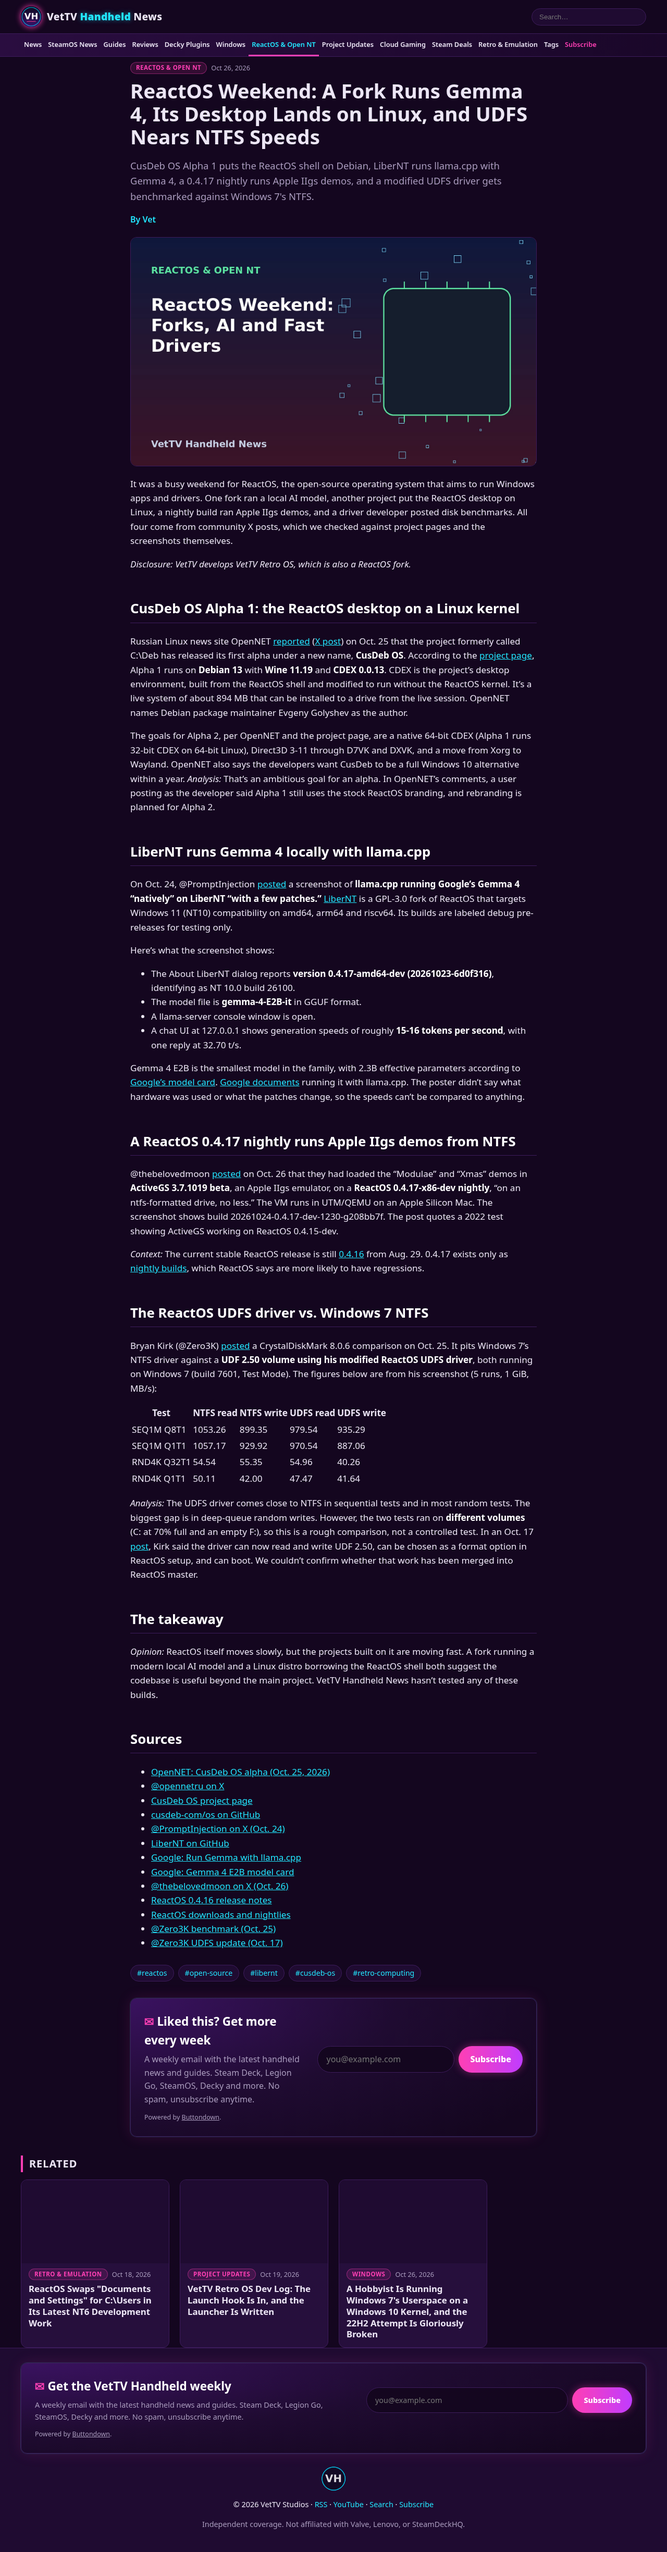
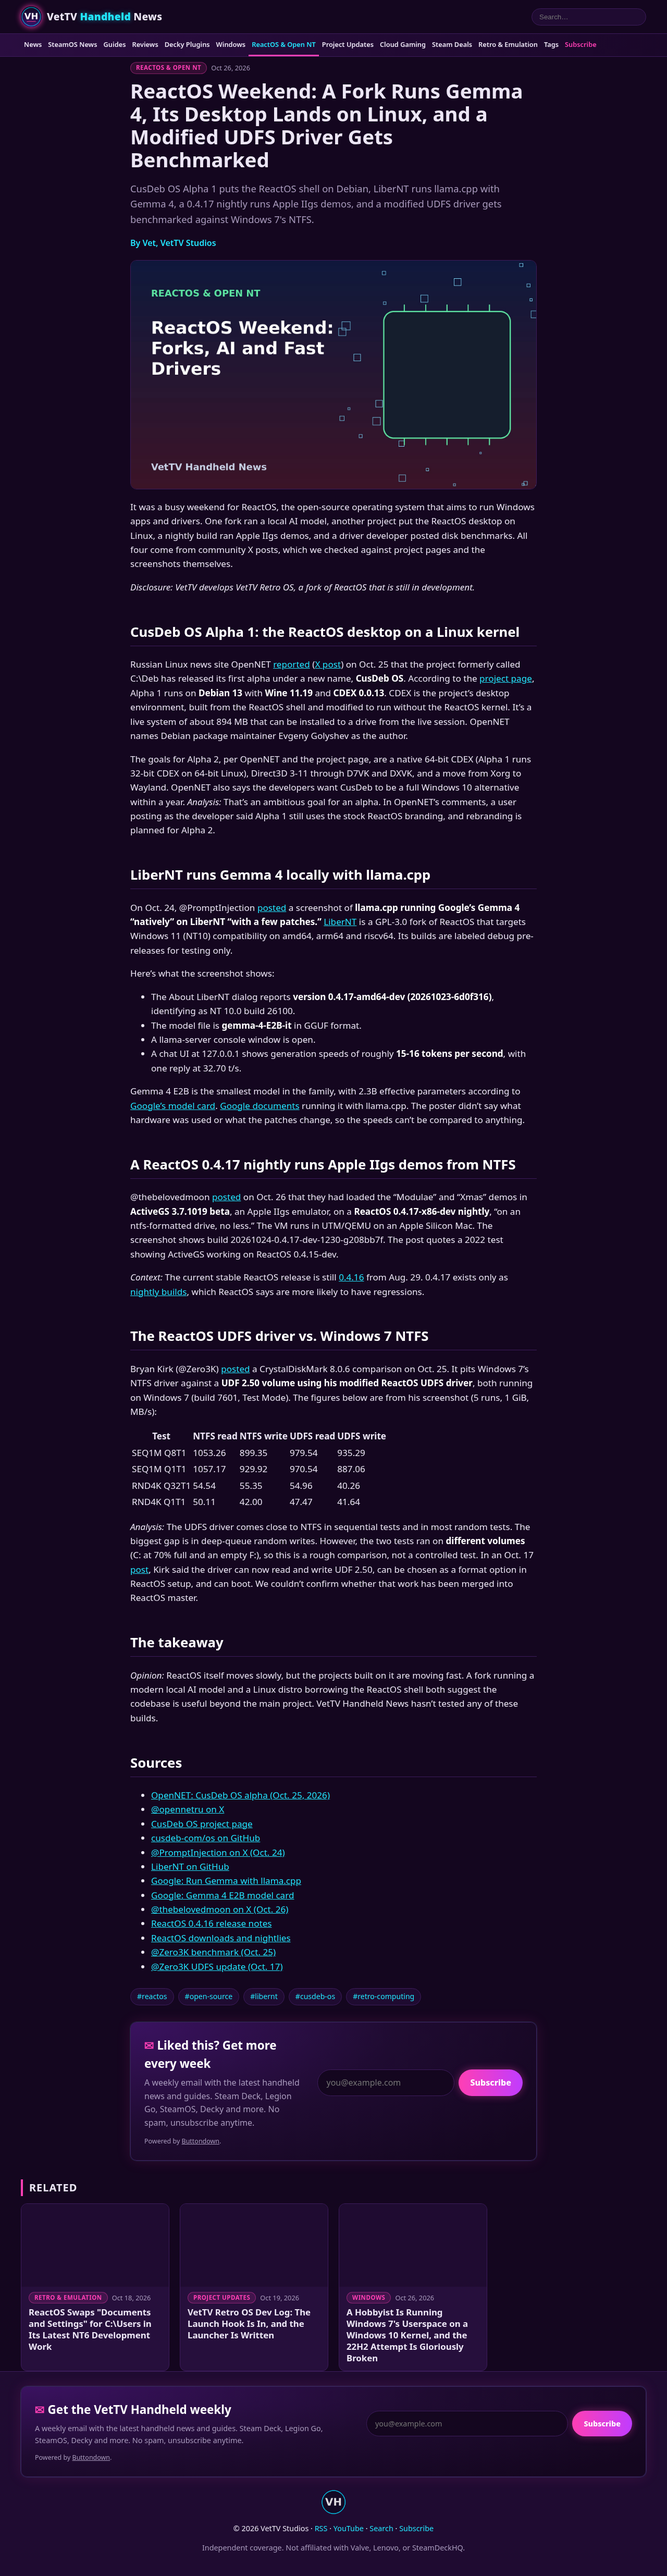
ReactOS roundup for publish: new headline (modified UDFS driver benchmarked), updated Retro OS disclosure, Vet, VetTV Studios byline

diff --git a/src/content/posts/reactos-community-roundup-2026-10-26.md b/src/content/posts/reactos-community-roundup-2026-10-26.md
@@ -1,11 +1,11 @@
 ---
-title: "ReactOS Weekend: A Fork Runs Gemma 4, Its Desktop Lands on Linux, and UDFS Nears NTFS Speeds"
+title: "ReactOS Weekend: A Fork Runs Gemma 4, Its Desktop Lands on Linux, and a Modified UDFS Driver Gets Benchmarked"
 description: "CusDeb OS Alpha 1 puts the ReactOS shell on Debian, LiberNT runs llama.cpp with Gemma 4, a 0.4.17 nightly runs Apple IIgs demos, and a modified UDFS driver gets benchmarked against Windows 7's NTFS."
 summary: "CusDeb OS Alpha 1 puts the ReactOS shell on Debian, LiberNT runs llama.cpp with Gemma 4, a 0.4.17 nightly runs Apple IIgs demos, and a modified UDFS driver gets benchmarked against Windows 7's NTFS."
 seoTitle: "ReactOS news: CusDeb OS alpha, LiberNT runs Gemma 4, UDFS benchmark"
 pubDate: 2026-10-26
-publishedAt: 2026-10-26T17:25:21.595Z
-author: "Vet"
+publishedAt: 2026-10-26T18:52:31.436Z
+author: "Vet, VetTV Studios"
 category: reactos-open-nt
 tags: ["reactos","open-source","libernt","cusdeb-os","retro-computing"]
 cover: "covers/reactos-community-roundup-2026-10-26.jpg"
@@ -41,7 +41,7 @@ source: "Article Desk: reactos-community-roundup-2026-10-26.md"
 ---
 It was a busy weekend for ReactOS, the open-source operating system that aims to run Windows apps and drivers. One fork ran a local AI model, another project put the ReactOS desktop on Linux, a nightly build ran Apple IIgs demos, and a driver developer posted disk benchmarks. All four come from community X posts, which we checked against project pages and the screenshots themselves.
 
-*Disclosure: VetTV develops VetTV Retro OS, which is also a ReactOS fork.*
+*Disclosure: VetTV develops VetTV Retro OS, a fork of ReactOS that is still in development.*
 
 ## CusDeb OS Alpha 1: the ReactOS desktop on a Linux kernel
 
